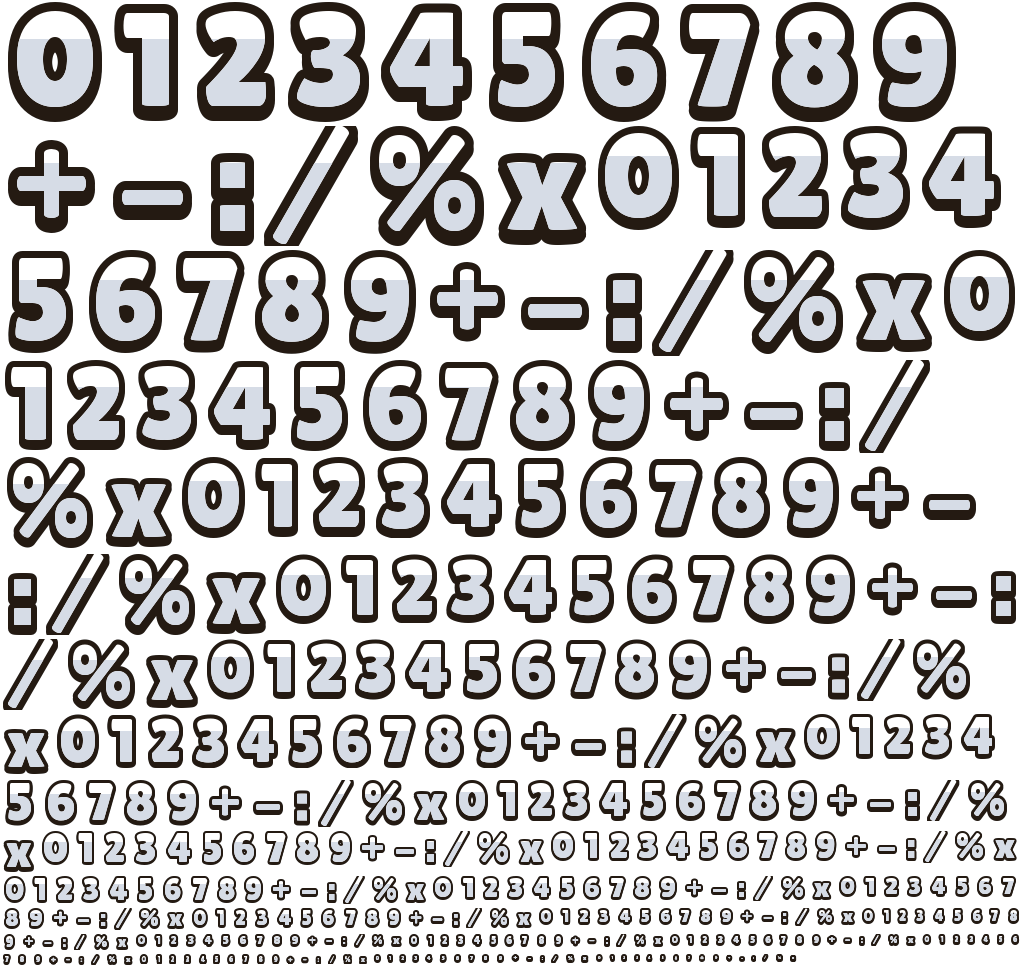
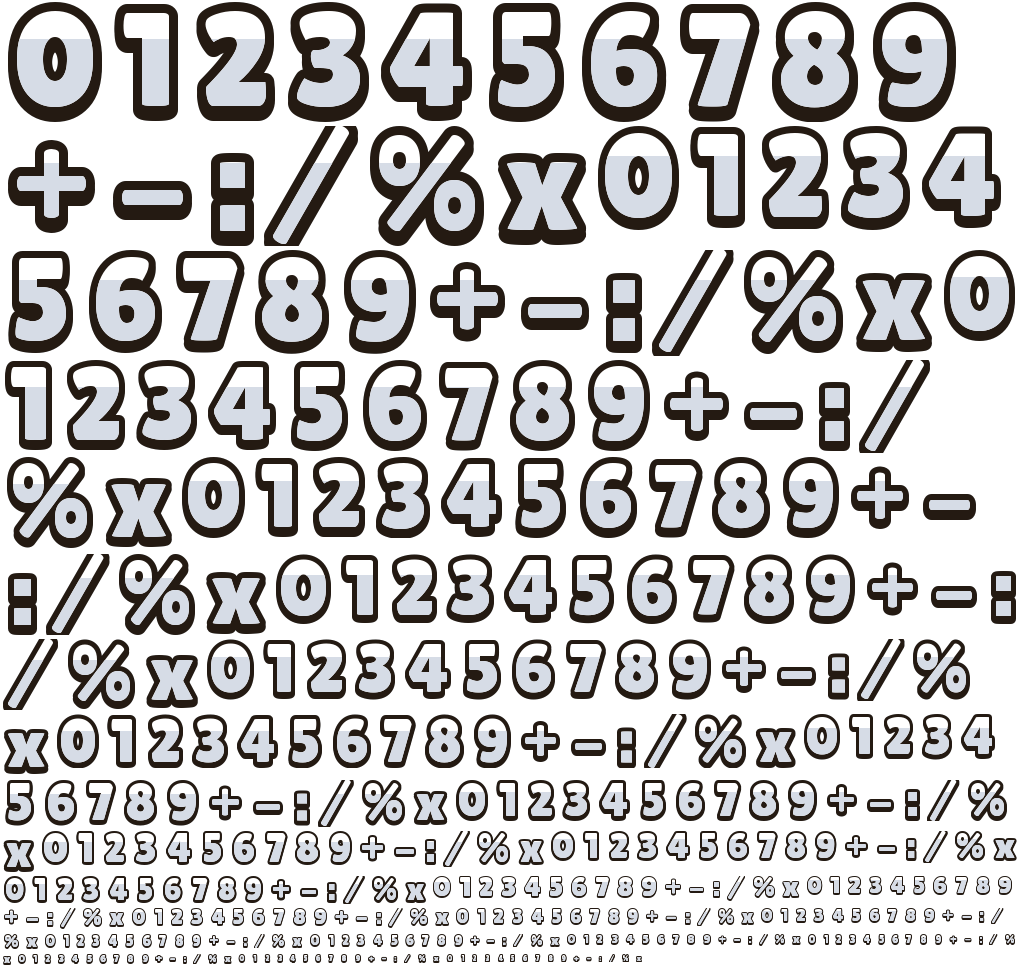
价签：金币放大一倍，数字镶边减半
参考图同一处"100"的价签，实测（逻辑 px）：金币 9.3x11.0、60 px2 金色，比它标价的
数字（面高 7.3）还高 1.27 倍；数字外面 2 px 环里只有 3.0% 是深色，环的中位明度 0.749
正好等于底砖自己的 0.749——那圈描边根本不存在。我们的金币 4.5x4.5、14 px2，只有 0.60
个字面高，比数字还矮；环里 58.8% 是深色，明度 0.345，黑墨跟数字本身差不多多。数字
大小倒是早就对了（7.5 对 7.3）。

- 金币跟着字高走（COIN_K = 0.455，半径 = COIN_K * ph），不再钉死在固定缩放上，整行
  重排留出 2.5 px 间隙。改后 9.0x9.0、62.5 px2、1.20 个字面高。
- coinCtx 改成按半径 1 画再缩小：原来按 0.13 画好放大 3.5 倍，Pixi 在本地坐标里三角化，
  金币内圈放大后成了一个菱形。
- digits.py 的描边地板 2 px -> 1 px。棋盘价签落在 22 设备 px 这一档，int(22*0.075)=1
  被地板顶成 2，上下各 2 加 1 px 投影吃掉字高的 22.7%，现在是 13.6%。地板原来的理由是
  "边重一点小字才清楚"，实测是反的：8 px 那档旧地板只留 3.0 px 字面，现在 5.0 px。
  28 px 以上没变。

剩下的差距写在 DECISIONS.md D125：描边只减了一半（46.5% 对 3.0%），而且不能直接删——
我们可付得起的价格是白字落在草地上，参考图从不把浅色数字放在浅色底上。

Changed region(s): [[0.0, 0.8997, 1.0, 1.0]]

diff --git a/src/view/offers.ts b/src/view/offers.ts
@@ -158,7 +158,19 @@ function glyphCtx(key: string) {
   });
 }
 
-const coinCtx = () => sharedCtx('offer|coin', (p) => coin(p, 0, 0, 0.13));
+/** The coin's radius next to the price, as a multiple of the digits' own glyph height ph.
+ *  Measured on the reference (D:/new/ref IMG_3700) against our k124 capture, in logical px: its
+ *  coin is 9.3 x 11.0 with 60 px2 of gold beside a digit face 7.3 tall -- the coin is TALLER than
+ *  the number it prices, 1.27 faces across. Ours was 4.5 x 4.5, 14 px2: 0.48 of that height and
+ *  0.24 of that gold, and shorter than its own digits, so the price read as three numbers with a
+ *  speck in front of them rather than as a cost (DECISIONS.md D125). It follows ph rather than
+ *  sitting at a fixed scale, because ph is what the zoom moves. */
+const COIN_K = 0.455;
+
+// The context is built at radius 1 and scaled DOWN, never up. Pixi tessellates a Graphics in its
+// own local units, so a circle authored at radius 0.13 and then blown up 3.5x came out a visible
+// polygon -- the coin's inner ring read as a diamond.
+const coinCtx = () => sharedCtx('offer|coin', (p) => coin(p, 0, 0, 1));
 
 /** lookB: the card is a flat stamp on the ground -- a cream glyph with a dark rim, a small coin and
  *  the price -- and nothing else. It used to be a carved wooden plaque: a body, a drop shadow, a
@@ -170,7 +182,9 @@ const coinCtx = () => sharedCtx('offer|coin', (p) => coin(p, 0, 0, 0.13));
 /** The card's geometry as the rest of the view needs it: how far below its own tile centre the
  *  stamp reaches, and the two rows on its face. buildingView.ts sizes the buildings against these
  *  so a wall never grows into the card on the tile one row up. */
-export const CARD_BOX = { bottom: PRICE_Y + PRICE_H / 2, glyphY: GLYPH_Y, priceY: PRICE_Y } as const;
+// the coin is the lowest thing on the card now, not the bottom of the digits (COIN_K)
+const PRICE_DROP = Math.max(PRICE_H / 2, COIN_K * PRICE_MAX_H);
+export const CARD_BOX = { bottom: PRICE_Y + PRICE_DROP, glyphY: GLYPH_Y, priceY: PRICE_Y } as const;
 
 /** Whether something that stands tall sits on a tile BELOW this one, where it would cover the price
  *  row. Only the two neighbours one row down can reach it: a left or right neighbour's centre is
@@ -299,6 +313,7 @@ export class OfferLayer {
       const ph = Math.min(PRICE_MAX_H, Math.max(PRICE_H, PRICE_MIN_PX / zoom));
       const look = priceLook(Tm.gold, cost);
       c.cost.set(String(cost), { h: ph, tint: look.tint, align: 'left', screen: zoom });
+      if (LOOK_B) c.coin.scale.set(COIN_K * ph);
       // the price row rides over the troops only while it can be paid (CardView.tag) -- unless
       // something stands on the tile below it, which would hide it for good instead of for the
       // second a soldier takes to walk past (coveredBelow)
@@ -329,10 +344,10 @@ export class OfferLayer {
     glyph.position.set(0, GLYPH_Y);
     glyph.scale.set(GLYPH_K);
     const cg = new Graphics(coinCtx());
-    cg.position.set(LOOK_B ? -0.14 : -0.24, PRICE_Y);
-    if (LOOK_B) cg.scale.set(0.58);
+    cg.position.set(LOOK_B ? -0.3 : -0.24, PRICE_Y);
+    if (!LOOK_B) cg.scale.set(0.13);
     const cost = new Num();
-    cost.position.set(LOOK_B ? -0.05 : -0.08, PRICE_Y);
+    cost.position.set(LOOK_B ? -0.09 : -0.08, PRICE_Y);
     root.addChild(glyph);
     const tag = new Container();
     tag.addChild(cg, cost);

diff --git a/tools/art/digits.py b/tools/art/digits.py
@@ -30,10 +30,23 @@ CHARS = {"0": "0", "1": "1", "2": "2", "3": "3", "4": "4", "5": "5", "6": "6", "
 # How a glyph's full height h is spent: the outline above and below the digit's face, the drop
 # shadow under that, and the face itself. The face used to be 0.7 of the height with the rest left
 # over, which drew the digit small for the room it took on screen; now it takes 0.8, which is all
-# that is left once the outline and the shadow have theirs. Under about 25 px the outline cannot
-# go under 2 px and the shadow under 1 without falling apart, so the face gives way instead, and
-# those sizes draw a slightly smaller, heavier-rimmed digit - which is what keeps a tiny number
-# on a zoomed-out board readable.
+# that is left once the outline and the shadow have theirs.
+#
+# The outline's floor used to be 2 px, on the grounds that a heavier rim keeps a tiny number
+# readable. Measured, it does the opposite at the one size the board uses most. A board price is
+# about 22 device px tall, where 2 px of outline top and bottom plus 1 of shadow is a FIFTH of the
+# glyph: in a 2-logical-px ring round the red of our "100", 82.6% of the pixels were dark ink
+# (ring value 0.220 against a tile at 0.722), so the number carried about as much dark as number.
+# The reference (D:/new/ref IMG_3700) draws its prices and its HUD with no outline and no drop
+# shadow at all -- the same ring round its red "100" is 18.6% dark and its median value 0.749,
+# which is the tile's own 0.749. The floor is 1 px instead (DECISIONS.md D125).
+#
+# The small sizes are not left bare by that. A 1 px rim on an 8 px glyph is still 12.5% of its
+# height against the 7.5% a big one gets, so a tiny number keeps a relatively heavier rim -- what
+# goes is the DOUBLE weight, which at 8 px was spending a quarter of the glyph on outline and
+# left a 3.0 px face. The face there is 5.0 px now, and at the board's own 22 px the ink falls
+# from 22.7% of the height to 13.6%. 28 px and up are untouched: int(h * OUTLINE) already gives
+# them 2 px or more.
 CAP = 0.80
 OUTLINE = 0.075
 SHADOW = 0.05
@@ -41,7 +54,7 @@ SHADOW = 0.05
 
 def parts(h: int) -> tuple[int, int, float]:
     """The outline width, the drop shadow's drop and the cap height of a glyph h pixels tall."""
-    ow = max(2, int(h * OUTLINE))
+    ow = max(1, int(h * OUTLINE))
     sh = max(1, int(h * SHADOW))
     return ow, sh, min(h * CAP, h - 2 * ow - sh)
 INK = (36, 26, 18, 255)

diff --git a/DECISIONS.md b/DECISIONS.md
@@ -4029,3 +4029,52 @@ alpha 定在 0.20 是夹出来的：用同一张固定掩膜量，0.24 → 0.098
 4. **占格距仍然小 8%**（0.386 对 0.420）。这不是印章的问题，是我们的镜头比参考图退得远
    （格距 50.5 对 45.2）。要补这 8% 只能动相机，那是另一件事。
 
+
+## D125 价签上的金币太小、数字镶边太重：参考图的金币比数字还高，数字根本没有描边
+
+参考图（`D:/new/ref/IMG_3700.PNG`）和我们 D124 收尾那版（`k124`）同一处"100"的价签，
+逐项量（都折算成逻辑 px，参考图 dpr 3，我们 dpr 2）：
+
+| | 数字面高 | 红色面积 | 数字周围 2 px 环里的深色占比 | 环的中位明度 | 底砖明度 | 金币（金色部分） | 金币面积 | 金币/数字高 |
+|---|---|---|---|---|---|---|---|---|
+| 参考图 | 7.3 | 70.4 px² | **3.0%** | 0.749 | 0.749 | 9.3 × 11.0 | 59.9 px² | **1.27** |
+| 改前 | 7.5 | 73.0 px² | **58.8%** | 0.345 | 0.696 | 4.5 × 4.5 | 14.5 px² | **0.60** |
+| 改后 | 7.5 | 69.8 px² | 46.5% | 0.467 | 0.714 | 9.0 × 9.0 | 62.5 px² | **1.20** |
+
+两件事，一开始只看出一件。
+
+**数字本身的大小早就对了**：7.5 对 7.3，差 3%。所以价签看着不对，不是字号的问题。
+
+**金币小了一倍。** 参考图的金币比它标价的数字还高（1.27 个字面），是一枚看得清的钱币；
+我们的只有 0.60 个字面，比数字还矮，金色面积只有参考图的 24%——它不像钱，像数字前面掉了
+一粒渣。改法是让金币跟着字高 `ph` 走（`COIN_K = 0.455`，半径 = COIN_K × ph），而不是像以前
+那样钉死在一个固定缩放上，因为会动的是镜头。顺带把整行重新排了：币心 -0.14 → -0.30，
+数字起点 -0.05 → -0.09，留出 2.5 逻辑 px 的间隙。
+
+**放大金币时踩到一个坑**：`coinCtx` 是共享的 Graphics 上下文，原来按半径 0.13 画好再放大
+3.5 倍，结果 Pixi 是在本地坐标里做的三角化——放大之后金币内圈直接变成了一个菱形。改成按
+半径 1 画、再缩小到位（lookA 那条路配 0.13），内圈才是圆的。
+
+**镶边是另一半。** 参考图的价格和 HUD 数字都没有描边、没有投影：红字外面 2 px 的环里只有
+3.0% 是深色，环的中位明度 0.749，正好等于底砖自己的 0.749——等于说那圈根本不存在。我们是
+58.8% 深色、环明度 0.345，数字周围的黑墨跟数字本身差不多多。根因在 `tools/art/digits.py`：
+描边宽度 `ow = max(2, int(h * OUTLINE))` 有个 2 px 的地板，而棋盘上的价签正好落在 22 设备 px
+这一档，`int(22 × 0.075) = 1` 被地板顶成 2，上下各 2 px 加 1 px 投影，整整吃掉字高的 22.7%。
+地板改成 1 px 之后这一档降到 13.6%，字面从 17 px 长到 17.6 px。
+
+这个地板原来的理由是"镶边重一点，小数字才看得清"。实测是反的：8 px 那一档，旧地板把四分之一
+的字高花在描边上，字面只剩 3.0 px，现在是 5.0 px。1 px 的边在 8 px 的字上仍占 12.5%，比大字
+的 7.5% 重——小字该有的分量还在，没了的只是那层翻倍。28 px 以上完全没变。
+
+### 还差多少，说清楚
+
+1. **描边只减了一半，没有消失。** 2 px 环里的深色从 58.8% 降到 46.5%，参考图是 3.0%；环的
+   中位明度 0.467，底砖 0.714，参考图两者相等。剩下的是那 1 px 描边加 1 px 投影。
+2. **而且不能直接删掉。** 参考图敢不描边，是因为它从不把浅色数字放在浅色底上——棋盘上的价格
+   是蓝砖上的红字，HUD 是深色药丸上的金字。我们的可付得起的价格是**白字**，直接落在草地和
+   沙地上，描边一去就看不见了。要追平这一项，得先改数字放在哪儿、什么颜色，那是另一件事，
+   不是调一个常数。
+3. **金币是正圆，参考图的是椭圆。** 我们 9.0 × 9.0，参考图 9.3 × 11.0——它是一枚略微侧着的
+   币，我们是正对着的。面积已经追平（62.5 对 59.9 px²），形状没有。
+4. **金币内圈的花纹不一样。** 参考图币面上是一个实心的记号，我们是一道细圆环。这一档尺寸下
+   看着都是"币"，凑近不是同一枚。
